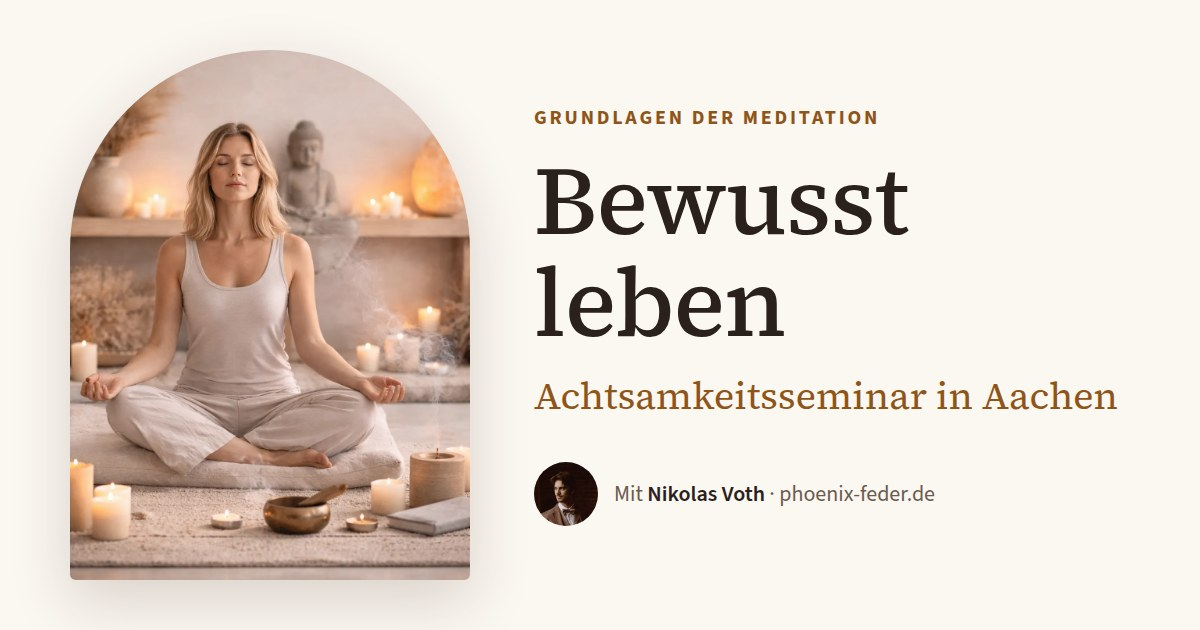
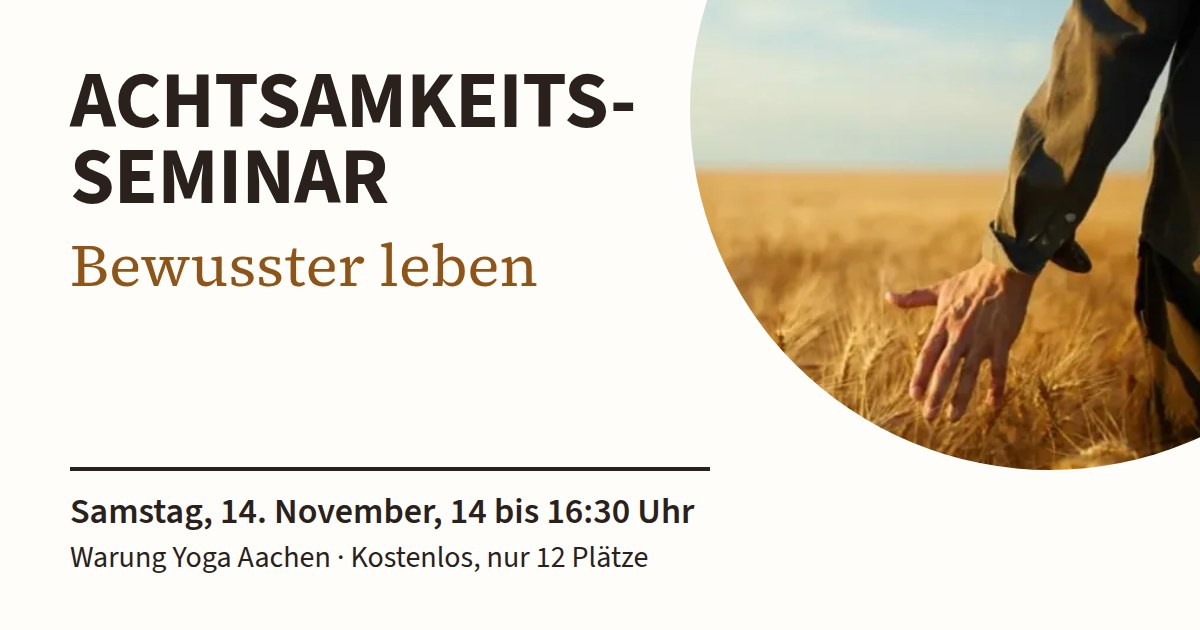
Link-Vorschau des Seminars im Plakat-Look, Vorschau-Text aktualisiert
- og-seminar.jpg neu: „ACHTSAMKEITS-SEMINAR“ groß, „Bewusster leben“, Hand im Kornfeld im Kreis,
  darunter Termin und Ort (statt Frau mit Kerzen)
- Kurzadresse /seminar/: Vorschau-Text „Achtsamkeitsseminar: Bewusster leben“ mit Datum, Ort und Plätzen
  aus seminar.json
- og:image mit ?v=<Prüfsumme>, damit WhatsApp & Co. das neue Bild laden statt das zwischengespeicherte

Claude-Session: https://claude.ai/code/session_01UKg8erKHmN4bGUkgYxNMY5

diff --git a/werkzeuge/werbung/vorlage.html b/werkzeuge/werbung/vorlage.html
@@ -84,14 +84,17 @@ h1, .unter, .fakt span, .szene p { text-wrap: balance; }
 .story .anmelden-qr strong, .reel .anmelden-qr strong { font-size: 46px; }
 .story .klein, .reel .klein { font-size: 34px; margin-top: 12px; }
 
-/* ---------- Link-Vorschau 1200 × 630 (WhatsApp, Social Media) ---------- */
-.vorschau { width: 1200px; height: 630px; padding: 50px 80px 50px 70px; display: grid; grid-template-columns: 400px 1fr; column-gap: 64px; align-items: center; }
-.vorschau .bogen { height: 530px; }
-.vorschau .oberzeile { font-size: 20px; margin-bottom: 18px; }
-.vorschau h1 { font-size: 96px; }
-.vorschau .unter { font-size: 38px; margin-top: 16px; }
-.vorschau .leiter { gap: 16px; margin-top: 40px; font-size: 22px; }
-.vorschau .leiter img { width: 64px; height: 64px; }
+/* ---------- Link-Vorschau 1200 × 630 (WhatsApp, Social Media): wie das Plakat, Kreis rechts oben ---------- */
+.vorschau { width: 1200px; height: 630px; padding: 64px 70px 54px; display: flex; flex-direction: column; background: #fffdf9; }
+.vorschau > *:not(.kreis) { position: relative; }
+.vorschau .kreis { width: 720px; height: 720px; right: -210px; top: -250px; }
+/* im Querformat sitzt das Foto etwas höher im Kreis, damit oben keine Kante bleibt */
+.vorschau .kreis img { top: 33%; }
+.vorschau h1 { font-family: var(--sans); font-weight: 700; font-size: 80px; line-height: 0.95; text-transform: uppercase; letter-spacing: -0.005em; text-wrap: initial; }
+.vorschau .unter { font-size: 60px; margin-top: 16px; line-height: 1.1; }
+.vorschau .unten { margin-top: auto; padding-top: 20px; border-top: 4px solid var(--text); max-width: 640px; }
+.vorschau .termin { font: 600 36px/1.15 var(--sans); color: var(--text); }
+.vorschau .infos { font: 400 30px/1.25 var(--sans); color: var(--text); margin-top: 6px; }
 
 /* ---------- Plakat DIN A4: sehr wenig Text, alles groß, ein Bild im Kreis ---------- */
 @page { size: A4; margin: 0; }

diff --git a/werkzeuge/browsertest.js b/werkzeuge/browsertest.js
@@ -164,7 +164,7 @@ function server() {
     const ld = await p.$$eval('script[type="application/ld+json"]', (l) => l.map((x) => JSON.parse(x.textContent)).find((x) => x["@type"] === "Event"));
     pruefe("Termin als schema.org-Event für Suchmaschinen", Boolean(ld?.startDate && ld.location?.address?.streetAddress), ld?.startDate);
     const og = await p.getAttribute('meta[property="og:image"]', "content");
-    pruefe("Vorschaubild für WhatsApp & Co. als JPG", og.endsWith(".jpg") && fs.existsSync(path.join(DOCS, new URL(og).pathname)));
+    pruefe("Vorschaubild für WhatsApp & Co. als JPG, mit Fassung in der Adresse", new URL(og).pathname.endsWith(".jpg") && /\?v=[0-9a-f]{8}$/.test(og) && fs.existsSync(path.join(DOCS, new URL(og).pathname)));
     await p.route("https://api.web3forms.com/**", (route) => route.fulfill({ contentType: "application/json", body: '{"success":true}' }));
     await p.fill('form[data-danach] [name="Vorname"]', "Test");
     await p.fill('form[data-danach] [name="email"]', "test@example.org");

diff --git a/werkzeuge/werbung/erzeugen.py b/werkzeuge/werbung/erzeugen.py
@@ -4,7 +4,7 @@
 Aufruf:  python3 werkzeuge/werbung/erzeugen.py [Ausgabeordner]
 Ergebnis: instagram-beitrag.png (1080 × 1350), story-status.png (1080 × 1920), kurzvideo.mp4 (12 s, ohne Ton),
           plakat-a4.pdf (druckfertig, skaliert auch auf A3), plakat-a4.png (Vorschau) und og-seminar.jpg
-          (Link-Vorschau 1200 × 630, wird auch nach bilder/ kopiert).
+          (Link-Vorschau 1200 × 630 im Plakat-Look, wird auch nach bilder/ kopiert).
 
 Termin, Ort und Plätze kommen aus inhalt/seminar.json, also nach einem neuen Termin einfach neu erzeugen.
 Der QR-Code führt auf <domain>/seminar/ (leitet zur Anmeldung weiter, siehe bauen.py).
@@ -65,7 +65,6 @@ def main():
     # „Dein Feedback hilft mir“; in Story und Video ohne Beschreibung steht „Pilotseminar“ beim Preis.
     kosten_mit_text = kosten + ("<br><i>Dein Feedback hilft mir</i>" if pilot else "")
     kosten_ohne_text = kosten + ("<br><i>Pilotseminar: Dein Feedback hilft mir</i>" if pilot else "")
-    oberzeile = "Grundlagen der Meditation"
     h, m = map(int, s["beginn"].split(":"))
     h2, m2 = map(int, s["ende"].split(":"))
     minuten = (h2 * 60 + m2) - (h * 60 + m)
@@ -77,7 +76,6 @@ def main():
     plakat_ort = esc(o["name"]) + "<br>" + esc(o["strasse"]) + (f" ({esc(o['zusatz'])})" if o.get("zusatz") else "")
     plakat_preis = esc(f"Kostenlos, nur {s['plaetze']} Plätze" if kostenlos else f"{s['preis']}, {s['plaetze']} Plätze")
     plakat_bild = (WURZEL / "bilder" / "seminar-wahrnehmung-1600.webp").as_uri()  # Hand im Kornfeld: Wahrnehmen
-    bild = (WURZEL / "bilder" / "achtsamkeit-1600.webp").as_uri()
     portrait = (WURZEL / "bilder" / "nikolas-portrait-800.webp").as_uri()
     qr = qr_svg(url)
     def fakten_html(preis):
@@ -93,11 +91,10 @@ def main():
     def anmelden(text="Jetzt anmelden"):
         return f"""<div class="anmelden"><div class="qr">{qr}</div><div><strong>{text}</strong><div class="adresse">{esc(kurz_url)}</div></div></div>"""
 
-    titel = "Bewusst leben"
     motto = "Die Grundlagen der Meditation, für jeden Tag"
     beschreibung = (("In diesem Pilotseminar" if pilot else f"In {minuten} Minuten") + " schärfst du deine Wahrnehmung, lernst dich "
                     "selbst besser kennen und übst, auch in schwierigen Situationen bewusst zu handeln.")
-    motto_neu = "Bewusster leben"  # Plakat und Social Media (Nikolas, Okt. 2026); Website und Link-Vorschau: „Bewusst leben“
+    motto_neu = "Bewusster leben"  # Plakat, Social Media und Link-Vorschau (Nikolas, Okt. 2026); Website: „Bewusst leben“
     kreis = f'<div class="kreis" aria-hidden="true"><img src="{plakat_bild}" alt=""></div>'
     kopf = f'<h1>Achtsamkeits-<br>seminar</h1>\n  <p class="unter">{motto_neu}</p>'
     pilot_satz = ("Ein Pilotseminar" if pilot else "Ein Seminar") + " mit Nikolas Voth"
@@ -116,9 +113,12 @@ def main():
         "story": schriftblatt("story"),
         "plakat": schriftblatt("plakat"),
         "vorschau": f"""<div class="blatt vorschau">
-  <div class="bogen"><img src="{bild}" alt=""></div>
-  <div><p class="oberzeile">{esc(oberzeile)}</p><h1>{titel}</h1><p class="unter">Achtsamkeitsseminar in {esc(o['stadt'])}</p>
-  <div class="leiter"><img src="{portrait}" alt=""><span>Mit <strong>Nikolas Voth</strong> · {esc(kurz_url.split('/')[0])}</span></div></div>
+  {kreis}
+  {kopf}
+  <div class="unten">
+    <p class="termin">{esc(plakat_tag)}, {esc(plakat_zeit)}</p>
+    <p class="infos">{esc(o["name"])} · {plakat_preis}</p>
+  </div>
 </div>""",
         "video": f"""<div class="blatt reel">
   {kreis}

diff --git a/bauen.py b/bauen.py
@@ -815,11 +815,18 @@ def bausteine_einsetzen(text, artikel):
 
 # ---------------------------------------------------------------- Seitengeruest
 
+def vorschau_bild(datei):
+    """Adresse eines eigenen Vorschaubilds mit Fassung (?v=…): WhatsApp & Co. merken sich Vorschaubilder je Adresse,
+    ein neues Bild bekommt so auch eine neue Adresse."""
+    fassung = hashlib.sha256((WURZEL / "bilder" / datei).read_bytes()).hexdigest()[:8]
+    return f"{E['domain']}/bilder/{datei}?v={fassung}"
+
+
 def seite(titel, beschreibung, pfad, inhalt, og_bild=None, og_typ="website", indexieren=True):
     voller_titel = E["name"] + " | " + E["untertitel"] if pfad == "/" else f"{titel} | {E['name']}"
     url = E["domain"] + pfad
     # og_bild: Name eines WebP-Paars oder eine eigene Datei mit Endung (JPG wird überall als Vorschau angezeigt)
-    og = f"{E['domain']}/bilder/{og_bild}" if og_bild and "." in og_bild else f"{E['domain']}/bilder/{og_bild or 'feder'}-1600.webp"
+    og = vorschau_bild(og_bild) if og_bild and "." in og_bild else f"{E['domain']}/bilder/{og_bild or 'feder'}-1600.webp"
     navi = ""
     for ziel, text in NAVI:
         aktiv = pfad.startswith(ziel) or (ziel == "/blog/" and pfad.startswith(("/post/", "/thema/")))
@@ -934,7 +941,7 @@ def umleitung(alt, neu, vorschau=None):
     if vorschau:
         t, b, bild_datei = vorschau
         og = (f'<meta property="og:title" content="{esc(t)}"><meta property="og:description" content="{esc(b)}">'
-              f'<meta property="og:image" content="{E["domain"]}/bilder/{bild_datei}"><meta property="og:url" content="{E["domain"]}{alt}">'
+              f'<meta property="og:image" content="{vorschau_bild(bild_datei)}"><meta property="og:url" content="{E["domain"]}{alt}">'
               '<meta property="og:type" content="website"><meta name="twitter:card" content="summary_large_image">\n')
     schreiben(alt, f"""<!doctype html><html lang="de"><head><meta charset="utf-8">
 <title>Weiterleitung</title><link rel="canonical" href="{E['domain']}{neu}">{og}
@@ -1077,8 +1084,12 @@ def main():
     for alt in ("/booking-calendar/", "/service-page/", "/services-4/"):
         umleitung(alt, "/book-online/")
     umleitung("/post/sehen-was-ist/", "/post/die-realitaet-sehen/")  # umbenannt am 14.10.2026
-    umleitung("/seminar/", "/achtsamkeitsseminar/#anmelden",  # Kurzadresse für QR-Code und Werbung
-              ("Achtsamkeitsseminar: Bewusst leben", "Grundlagen der Meditation in Aachen. Jetzt anmelden.", "og-seminar.jpg"))
+    # Kurzadresse für QR-Code und Werbung; Vorschau-Text wie das Plakat („Bewusster leben“, Nikolas Okt. 2026)
+    t = seminar_termin()
+    umleitung("/seminar/", "/achtsamkeitsseminar/#anmelden", (
+        "Achtsamkeitsseminar: Bewusster leben",
+        f"{t['tag_lang']}, {t['zeit']} im {t['ort']['name']}. {'Kostenlos, ' if t['kostenlos'] else ''}{t['plaetze']} Plätze. Jetzt anmelden."
+        if t else "Grundlagen der Meditation in Aachen. Der nächste Termin ist in Planung.", "og-seminar.jpg"))
 
     (AUSGABE / "feed.xml").write_text(feed(artikel), encoding="utf-8")
     shutil.copy(AUSGABE / "feed.xml", AUSGABE / "blog-feed.xml")  # alte Wix-Adresse des Feeds

diff --git a/CLAUDE.md b/CLAUDE.md
@@ -25,7 +25,7 @@ veröffentlicht ihn bei jedem Push auf `main` über GitHub Pages.
 | `app/` | Web-App „Probier’s heute“ / „Meine Routinen“ unter `/app/` (siehe unten) |
 | `werkzeuge/habitica-import.py` | Alter Import Habitica-CSV → `uebungen.json`. Würde die Handpflege überschreiben, läuft darum nur mit `--ueberschreiben` |
 | `werkzeuge/bild.py` | Bild vorbereiten (braucht `pip install pillow`) |
-| `werkzeuge/werbung/erzeugen.py` | Seminar-Werbung aus `seminar.json`: Instagram-Beitrag, Story/Status, 12-s-Video, A4-Plakat mit QR-Code auf `/seminar/` (Kurzadresse, leitet zur Anmeldung). Plakat bewusst als Schriftplakat: Hauptzeile „ACHTSAMKEITS-SEMINAR“ in Großbuchstaben, „Bewusster leben“ kleiner darunter (nur auf dem Plakat, sonst „Bewusst leben“), sehr wenig Text, große Schrift auch bei Termin, Ort und Preis, ein Achtsamkeitsbild im Kreis (Hand im Kornfeld, `seminar-wahrnehmung`; nur 580 px, darum A4 und nicht größer) statt Stockfoto im Bogen (Nikolas: „nicht so typisch AI“). Instagram-Beitrag, Story/Status und Short (12 s, vier Szenen, ohne Ton: Musik in Instagram wählen) im selben Look; nur die Link-Vorschau (og-seminar.jpg) bleibt im Stil der Website. Nach neuem Termin neu erzeugen; braucht `pip install qrcode imageio-ffmpeg` |
+| `werkzeuge/werbung/erzeugen.py` | Seminar-Werbung aus `seminar.json`: Instagram-Beitrag, Story/Status, 12-s-Video, A4-Plakat mit QR-Code auf `/seminar/` (Kurzadresse, leitet zur Anmeldung). Plakat bewusst als Schriftplakat: Hauptzeile „ACHTSAMKEITS-SEMINAR“ in Großbuchstaben, „Bewusster leben“ kleiner darunter (Plakat, Social Media und Link-Vorschau; auf der Website „Bewusst leben“), sehr wenig Text, große Schrift auch bei Termin, Ort und Preis, ein Achtsamkeitsbild im Kreis (Hand im Kornfeld, `seminar-wahrnehmung`; nur 580 px, darum A4 und nicht größer) statt Stockfoto im Bogen (Nikolas: „nicht so typisch AI“). Instagram-Beitrag, Story/Status, Short (12 s, vier Szenen, ohne Ton: Musik in Instagram wählen) und Link-Vorschau (og-seminar.jpg, 1200 × 630: Kreis rechts, „ACHTSAMKEITS-SEMINAR“ und „Bewusster leben“, darunter Termin und Ort; seit Okt. 2026, vorher Frau mit Kerzen) im selben Look. Vorschaubilder bekommen in og:image `?v=<Prüfsumme>`, weil WhatsApp sie je Adresse zwischenspeichert; Vorschau-Text der Kurzadresse `/seminar/` kommt aus seminar.json. Nach neuem Termin neu erzeugen; braucht `pip install qrcode imageio-ffmpeg` |
 | `werkzeuge/browsertest.js` | Browser-Test für Website und App (Playwright), siehe Arbeitsweise |
 | `werkzeuge/wix-export.py` | Einmaliger Umzug von Wix, erledigt. Nicht erneut nötig |
 
